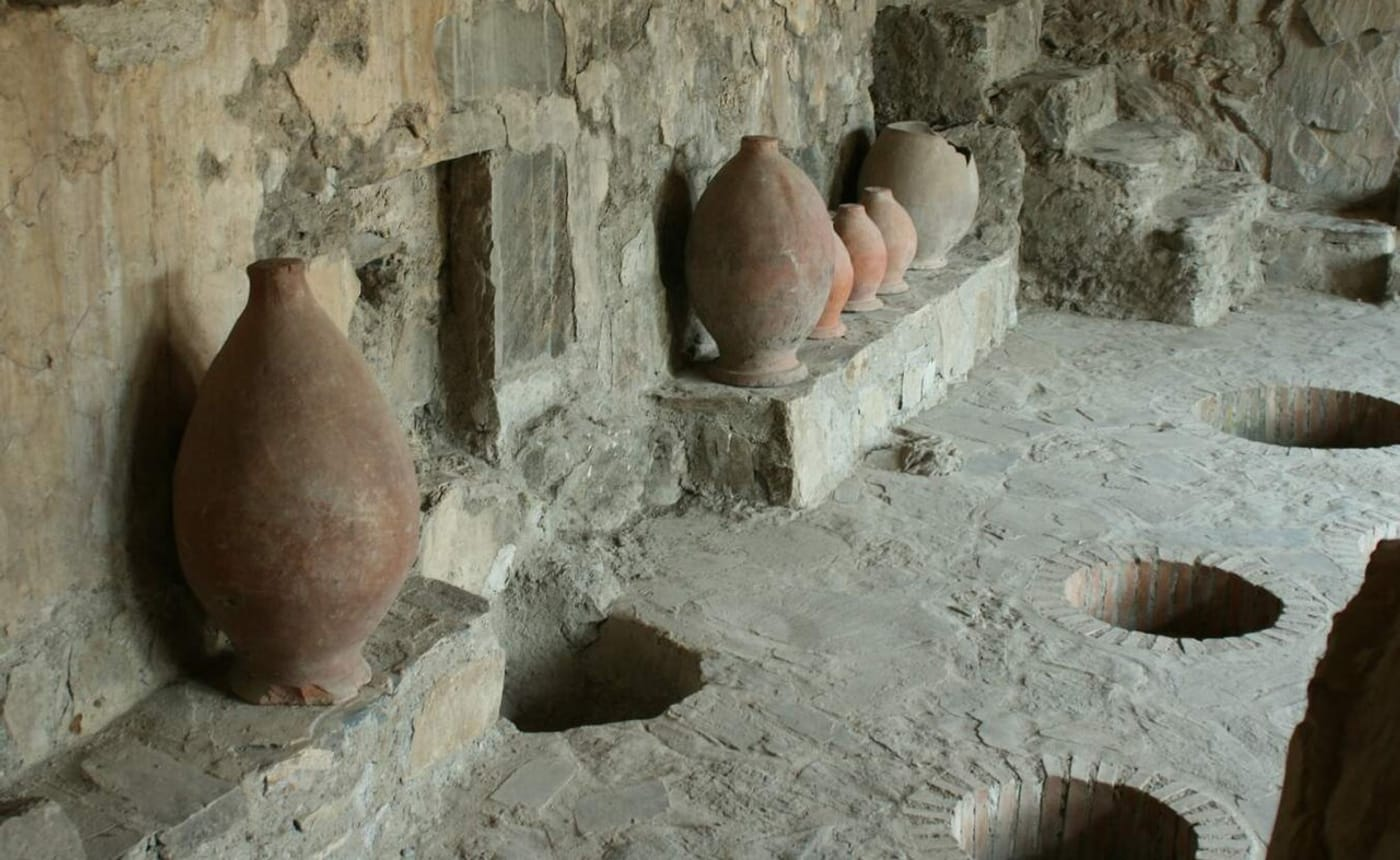
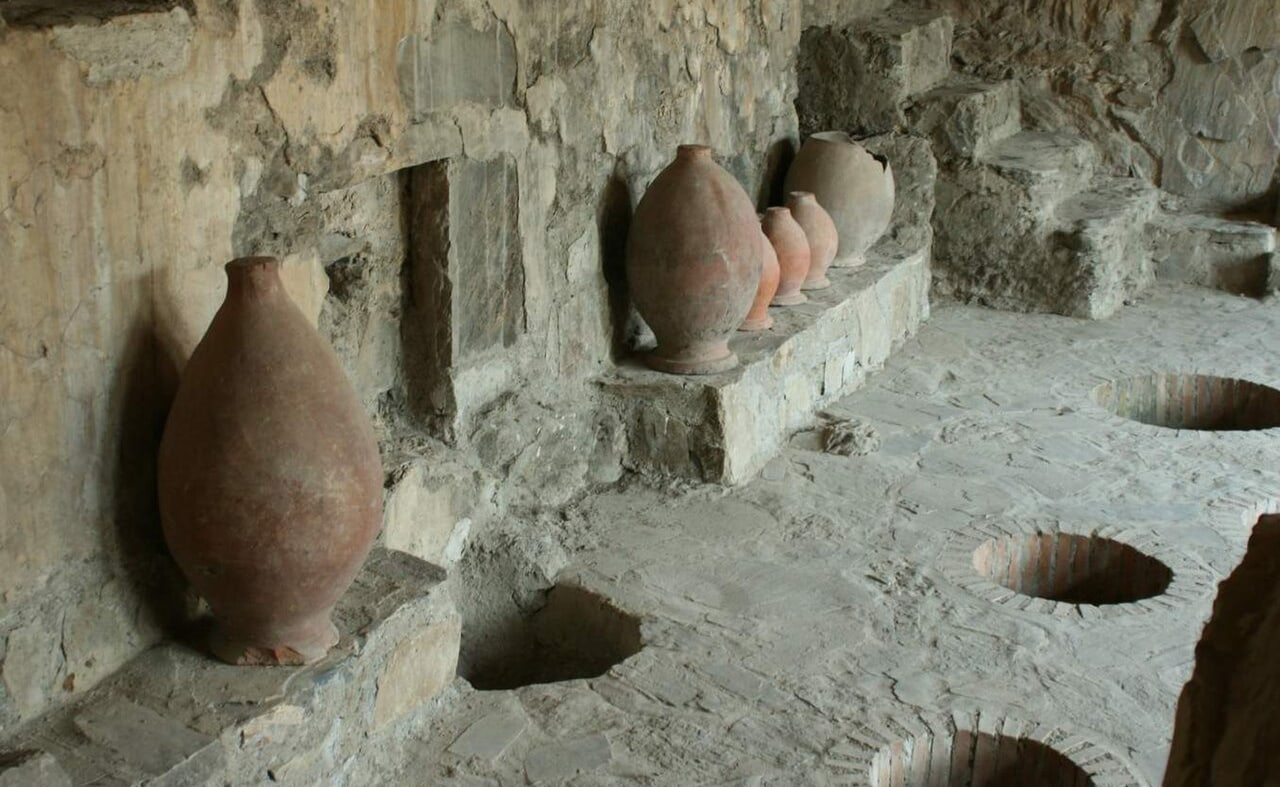
Deep scan: fix swallowed booking redirects, tour search, image quality
The user journey test found bookings being created while the customer
stayed on the checkout page: React 19 swallows the server's 303 after a
client-form POST, and route handlers were building absolute redirect
URLs from the configured host. All API redirects now return relative
Location headers (seeOther helper), checkout and preference forms follow
the redirect explicitly via fetch, and upgrade-insecure-requests is only
emitted when the site is served over https.

Also: tour 'See prices' was blocked by the adjacent-stops rule for tours
that start and end in the same city; photos regenerated from full-size
originals; og.jpg share card added and wired into metadata.

Changed region(s): [[0.0, 0.0, 1.0, 1.0], [0.0, 0.1525, 0.0938, 0.2745]]

diff --git a/src/components/preference-switcher.tsx b/src/components/preference-switcher.tsx
@@ -1,6 +1,6 @@
 "use client";
 
-import { useRef } from "react";
+import { useEffect, useId, useRef, useState } from "react";
 import { DISPLAY_CURRENCIES, type DisplayCurrency } from "@/lib/currency-constants";
 import { LOCALES, LOCALE_LABEL, getTranslator, type Locale } from "@/lib/i18n";
 
@@ -17,23 +17,38 @@ export function PreferenceSwitcher({
   const t = getTranslator(locale);
   const localeForm = useRef<HTMLFormElement>(null);
   const currencyForm = useRef<HTMLFormElement>(null);
+  // Return to the page the visitor is actually on — switching language in
+  // the middle of a search must not dump them back on the homepage. The
+  // server-rendered fallback stays the locale home for the no-JS case.
+  const [backTo, setBackTo] = useState(returnTo);
+  useEffect(() => {
+    setBackTo(window.location.pathname + window.location.search);
+  }, []);
+
+  // React 19 swallows client-form redirects; post explicitly and follow.
+  async function post(form: HTMLFormElement | null) {
+    if (!form) return;
+    const res = await fetch("/api/preferences", { method: "POST", body: new FormData(form) });
+    window.location.assign(res.url || backTo);
+  }
 
   const select = dark
     ? "cursor-pointer rounded-lg border border-pine-600 bg-transparent py-1.5 pl-2 pr-6 text-xs " +
       "font-medium text-pine-100 transition-colors hover:border-pine-400 hover:text-white [&>option]:text-ink-900"
     : "cursor-pointer rounded-lg border border-ink-200 bg-transparent py-1.5 pl-2 pr-6 text-xs " +
       "font-medium text-ink-600 transition-colors hover:border-ink-300 hover:text-ink-900";
-  const suffix = dark ? "-footer" : "";
+  // Unique per instance: the header and footer both render this component.
+  const suffix = "-" + useId().replace(/[^a-zA-Z0-9]/g, "");
 
   return (
     <div className="flex items-center gap-1.5">
       <form ref={localeForm} action="/api/preferences" method="post" className="contents">
-        <input type="hidden" name="returnTo" value={returnTo} />
+        <input type="hidden" name="returnTo" value={backTo} />
         <input type="hidden" name="currency" value={currency} />
         <label htmlFor={`locale-select${suffix}`} className="sr-only">{t("footer.langCurrency")}</label>
         <select
           id={`locale-select${suffix}`} name="locale" defaultValue={locale} className={select}
-          onChange={() => localeForm.current?.requestSubmit()}
+          onChange={() => void post(localeForm.current)}
         >
           {LOCALES.map((l) => <option key={l} value={l}>{LOCALE_LABEL[l]}</option>)}
         </select>
@@ -43,12 +58,12 @@ export function PreferenceSwitcher({
       </form>
 
       <form ref={currencyForm} action="/api/preferences" method="post" className="contents">
-        <input type="hidden" name="returnTo" value={returnTo} />
+        <input type="hidden" name="returnTo" value={backTo} />
         <input type="hidden" name="locale" value={locale} />
         <label htmlFor={`currency-select${suffix}`} className="sr-only">{t("footer.langCurrency")}</label>
         <select
           id={`currency-select${suffix}`} name="currency" defaultValue={currency} className={select}
-          onChange={() => currencyForm.current?.requestSubmit()}
+          onChange={() => void post(currencyForm.current)}
         >
           {DISPLAY_CURRENCIES.map((c) => <option key={c} value={c}>{c}</option>)}
         </select>

diff --git a/src/app/api/bookings/route.ts b/src/app/api/bookings/route.ts
@@ -8,7 +8,7 @@ import { getPaymentProvider } from "@/lib/payments";
 import { dispatchPending } from "@/lib/notifications";
 import { config } from "@/lib/config";
 import type { Locale } from "@/lib/i18n";
-import { assertSameOrigin, rateLimit, clientKey, CrossOriginError } from "@/lib/security";
+import { assertSameOrigin, rateLimit, clientKey, CrossOriginError, seeOther } from "@/lib/security";
 
 /**
  * Checkout submission.
@@ -57,13 +57,7 @@ export async function POST(request: NextRequest) {
   const locale = (["en", "ka", "ru"].includes(raw.locale ?? "") ? raw.locale : "en") as Locale;
 
   const back = (message: string, quoteId?: string) =>
-    NextResponse.redirect(
-      new URL(
-        `/${locale}/checkout?quote=${quoteId ?? raw.quoteId ?? ""}&error=${encodeURIComponent(message)}`,
-        config.appUrl,
-      ),
-      { status: 303 },
-    );
+    seeOther(`/${locale}/checkout?quote=${quoteId ?? raw.quoteId ?? ""}&error=${encodeURIComponent(message)}`);
 
   const parsed = Schema.safeParse(raw);
   if (!parsed.success) return back(parsed.error.issues.map((i) => i.message).join(" "));
@@ -110,14 +104,17 @@ export async function POST(request: NextRequest) {
                 ${booking.currency}, ${`checkout:${booking.id}`})
         ON CONFLICT (idempotency_key) DO NOTHING`;
 
-      return NextResponse.redirect(new URL(session.redirectUrl, config.appUrl), { status: 303 });
+      // Payment-provider URLs stay absolute; our own URLs re-base onto the
+      // incoming request so redirects work on any host (localhost, previews, prod).
+      const target = new URL(session.redirectUrl, request.url);
+      const ownHost = new URL(config.appUrl).host;
+      return target.host === ownHost
+        ? seeOther(target.pathname + target.search)
+        : NextResponse.redirect(target, { status: 303 });
     }
 
     await dispatchPending().catch(() => {});
-    return NextResponse.redirect(
-      new URL(`/${locale}/booking/${booking.code}?t=${booking.manageToken}`, config.appUrl),
-      { status: 303 },
-    );
+    return seeOther(`/${locale}/booking/${booking.code}?t=${booking.manageToken}`);
   } catch (err) {
     if (err instanceof BookingConflictError || err instanceof QuoteExpiredError || err instanceof CashUnavailableError) {
       return back(err.message, v.quoteId);

diff --git a/src/app/api/auth/login/route.ts b/src/app/api/auth/login/route.ts
@@ -7,7 +7,7 @@ import { createSession, findUserByEmail, getUserRoles } from "@/lib/auth/session
 import { verifyPassword } from "@/lib/auth/password";
 import { writeAudit } from "@/lib/audit";
 import { config } from "@/lib/config";
-import { assertSameOrigin, rateLimit, clientKey, CrossOriginError } from "@/lib/security";
+import { assertSameOrigin, rateLimit, clientKey, CrossOriginError, seeOther } from "@/lib/security";
 
 /**
  * Plain form POST rather than a server action, so sign-in works without
@@ -37,9 +37,8 @@ export async function POST(request: NextRequest) {
   // a word list.
   const limit = rateLimit(await clientKey("login"), 10, 900);
   if (!limit.allowed) {
-    return NextResponse.redirect(new URL("/login?error=throttled", config.appUrl), {
-      status: 303,
-      headers: { "Retry-After": String(limit.retryAfterSeconds) },
+    return seeOther("/login?error=throttled", {
+      "Retry-After": String(limit.retryAfterSeconds),
     });
   }
 
@@ -50,8 +49,7 @@ export async function POST(request: NextRequest) {
     next: form.get("next") || undefined,
   });
 
-  const fail = (reason: string) =>
-    NextResponse.redirect(new URL(`/login?error=${reason}`, config.appUrl), { status: 303 });
+  const fail = (reason: string) => seeOther(`/login?error=${reason}`);
 
   if (!parsed.success) return fail("invalid");
   const { email, password, next } = parsed.data;
@@ -82,5 +80,5 @@ export async function POST(request: NextRequest) {
         ? "/admin"
         : "/driver";
 
-  return NextResponse.redirect(new URL(destination, config.appUrl), { status: 303 });
+  return seeOther(destination);
 }

diff --git a/src/app/api/auth/reset/route.ts b/src/app/api/auth/reset/route.ts
@@ -1,6 +1,6 @@
 import { NextResponse, type NextRequest } from "next/server";
 import { completePasswordReset } from "@/lib/auth/reset";
-import { assertSameOrigin, rateLimit, clientKey, CrossOriginError } from "@/lib/security";
+import { assertSameOrigin, rateLimit, clientKey, CrossOriginError, seeOther } from "@/lib/security";
 import { config } from "@/lib/config";
 
 export async function POST(request: NextRequest) {
@@ -13,7 +13,7 @@ export async function POST(request: NextRequest) {
 
   const limit = rateLimit(await clientKey("reset"), 10, 900);
   if (!limit.allowed) {
-    return NextResponse.redirect(new URL("/reset-password?error=throttled", config.appUrl), { status: 303 });
+    return seeOther("/reset-password?error=throttled");
   }
 
   const form = await request.formData();
@@ -22,10 +22,7 @@ export async function POST(request: NextRequest) {
   const confirm = String(form.get("confirm") ?? "");
 
   if (password !== confirm) {
-    return NextResponse.redirect(
-      new URL(`/reset-password?token=${encodeURIComponent(token)}&error=mismatch`, config.appUrl),
-      { status: 303 },
-    );
+    return seeOther(`/reset-password?token=${encodeURIComponent(token)}&error=mismatch`);
   }
 
   const outcome = await completePasswordReset(token, password);
@@ -33,5 +30,5 @@ export async function POST(request: NextRequest) {
     ? "/login?reset=1"
     : `/reset-password?token=${encodeURIComponent(token)}&error=${encodeURIComponent(outcome.message)}`;
 
-  return NextResponse.redirect(new URL(target, config.appUrl), { status: 303 });
+  return seeOther(target);
 }

diff --git a/src/app/[locale]/checkout/form.tsx b/src/app/[locale]/checkout/form.tsx
@@ -17,10 +17,32 @@ export function CheckoutForm({
   childSeatFeeLabel: string;
 }) {
   const [payment, setPayment] = useState<"CASH" | "CARD">(cashAvailable ? "CASH" : "CARD");
+  const [submitting, setSubmitting] = useState(false);
+
+  /**
+   * Explicit submission. React 19 intercepts client-component form posts and
+   * silently swallows the server's redirect — the booking succeeds and the
+   * traveller sees nothing happen. We post ourselves, follow the redirect
+   * chain, and land the browser where the server said to go. If JavaScript
+   * never runs, the native form still posts the old way.
+   */
+  async function submit(e: React.FormEvent<HTMLFormElement>) {
+    e.preventDefault();
+    if (submitting) return;
+    const form = e.currentTarget;
+    if (!form.reportValidity()) return;
+    setSubmitting(true);
+    try {
+      const res = await fetch("/api/bookings", { method: "POST", body: new FormData(form) });
+      window.location.assign(res.url || `/${locale}`);
+    } catch {
+      setSubmitting(false);
+    }
+  }
   const t = getTranslator(locale);
 
   return (
-    <form action="/api/bookings" method="post" className="space-y-6">
+    <form action="/api/bookings" method="post" onSubmit={submit} className="space-y-6">
       <input type="hidden" name="quoteId" value={quoteId} />
       <input type="hidden" name="locale" value={locale} />
 

diff --git a/src/components/search-form.tsx b/src/components/search-form.tsx
@@ -75,9 +75,13 @@ export function SearchForm({
     if (!from || !to) return setError(t("search.errBoth"));
     if (!tourSlug && from === to) return setError(t("search.errSame"));
     if (stops.some((s) => !s)) return setError(t("search.errStopEmpty"));
+    // A tour legitimately starts and ends in the same city, so the adjacency
+    // rule only applies between consecutive *stops* on a tour route.
     const sequence = [from, ...stops, to];
     for (let i = 1; i < sequence.length; i++) {
-      if (sequence[i] === sequence[i - 1]) return setError(t("search.errAdjacent"));
+      if (sequence[i] !== sequence[i - 1]) continue;
+      const isTourEndpoints = tourSlug && stops.length === 0;
+      if (!isTourEndpoints) return setError(t("search.errAdjacent"));
     }
     if (new Date(when).getTime() < Date.now()) return setError(t("search.errPast"));
     if (roundTrip && new Date(returnWhen).getTime() <= new Date(when).getTime()) {

diff --git a/src/app/api/auth/forgot/route.ts b/src/app/api/auth/forgot/route.ts
@@ -2,7 +2,7 @@ import { NextResponse, type NextRequest } from "next/server";
 import { z } from "zod";
 import { requestPasswordReset } from "@/lib/auth/reset";
 import { dispatchPending } from "@/lib/notifications";
-import { assertSameOrigin, rateLimit, clientKey, CrossOriginError } from "@/lib/security";
+import { assertSameOrigin, rateLimit, clientKey, CrossOriginError, seeOther } from "@/lib/security";
 import { config } from "@/lib/config";
 
 export async function POST(request: NextRequest) {
@@ -26,5 +26,5 @@ export async function POST(request: NextRequest) {
     await dispatchPending(5).catch(() => {});
   }
 
-  return NextResponse.redirect(new URL("/forgot-password?sent=1", config.appUrl), { status: 303 });
+  return seeOther("/forgot-password?sent=1");
 }

diff --git a/src/lib/security.ts b/src/lib/security.ts
@@ -93,3 +93,20 @@ export async function clientKey(scope: string): Promise<string> {
     "unknown";
   return `${scope}:${ip}`;
 }
+
+/**
+ * 303 See Other with a *relative* Location (valid per RFC 9110 §10.2.2).
+ * The browser resolves it against the URL it actually requested, so redirects
+ * work identically on localhost, 127.0.0.1, previews and production without
+ * the server ever guessing its own host. (`request.url` in route handlers
+ * reports the internal hostname, not the one the visitor used.)
+ */
+export function seeOther(
+  pathAndQuery: string,
+  headers?: Record<string, string>,
+): Response {
+  return new Response(null, {
+    status: 303,
+    headers: { Location: pathAndQuery, ...headers },
+  });
+}

diff --git a/src/app/api/consent/route.ts b/src/app/api/consent/route.ts
@@ -2,7 +2,7 @@ import { NextResponse, type NextRequest } from "next/server";
 import { cookies } from "next/headers";
 import { sql } from "@db/client";
 import { getSessionUser } from "@/lib/auth/session";
-import { assertSameOrigin, CrossOriginError } from "@/lib/security";
+import { assertSameOrigin, CrossOriginError, seeOther } from "@/lib/security";
 import { config } from "@/lib/config";
 
 /**
@@ -43,5 +43,5 @@ export async function POST(request: NextRequest) {
 
   const back = String(form.get("returnTo") ?? "/");
   const safe = back.startsWith("/") && !back.startsWith("//") ? back : "/";
-  return NextResponse.redirect(new URL(safe, config.appUrl), { status: 303 });
+  return seeOther(safe);
 }

diff --git a/src/app/api/preferences/route.ts b/src/app/api/preferences/route.ts
@@ -3,7 +3,7 @@ import { cookies } from "next/headers";
 import { isDisplayCurrency } from "@/lib/currency";
 import { isLocale } from "@/lib/i18n";
 import { config } from "@/lib/config";
-import { assertSameOrigin, CrossOriginError } from "@/lib/security";
+import { assertSameOrigin, CrossOriginError, seeOther } from "@/lib/security";
 
 /**
  * Locale and currency switches. A plain form POST so they work without
@@ -36,5 +36,5 @@ export async function POST(request: NextRequest) {
     ? safePath.replace(/^\/(en|ka|ru)(?=\/|$)/, `/${locale}`)
     : safePath;
 
-  return NextResponse.redirect(new URL(destination, config.appUrl), { status: 303 });
+  return seeOther(destination);
 }

diff --git a/src/app/layout.tsx b/src/app/layout.tsx
@@ -30,7 +30,13 @@ export const metadata: Metadata = {
     "Airport transfers, intercity routes and curated day trips.",
   applicationName: "RouteGeorgia",
   authors: [{ name: "RouteGeorgia" }],
-  openGraph: { siteName: "RouteGeorgia", locale: "en_GE", type: "website" },
+  openGraph: {
+    siteName: "RouteGeorgia",
+    locale: "en_GE",
+    type: "website",
+    images: [{ url: "/og.jpg", width: 1200, height: 630, alt: "RouteGeorgia — private drivers across Georgia" }],
+  },
+  twitter: { card: "summary_large_image", images: ["/og.jpg"] },
   robots: { index: true, follow: true },
 };
 

diff --git a/next.config.ts b/next.config.ts
@@ -65,7 +65,11 @@ const config: NextConfig = {
       "frame-ancestors 'none'",
       "base-uri 'self'",
       "object-src 'none'",
-      "upgrade-insecure-requests",
+      // Only meaningful when the site itself is served over https; on a local
+      // http server it upgrades our own redirects to unreachable https URLs.
+      ...(String(process.env.APP_URL ?? "").startsWith("https")
+        ? ["upgrade-insecure-requests"]
+        : []),
     ].join("; ");
 
     return [
